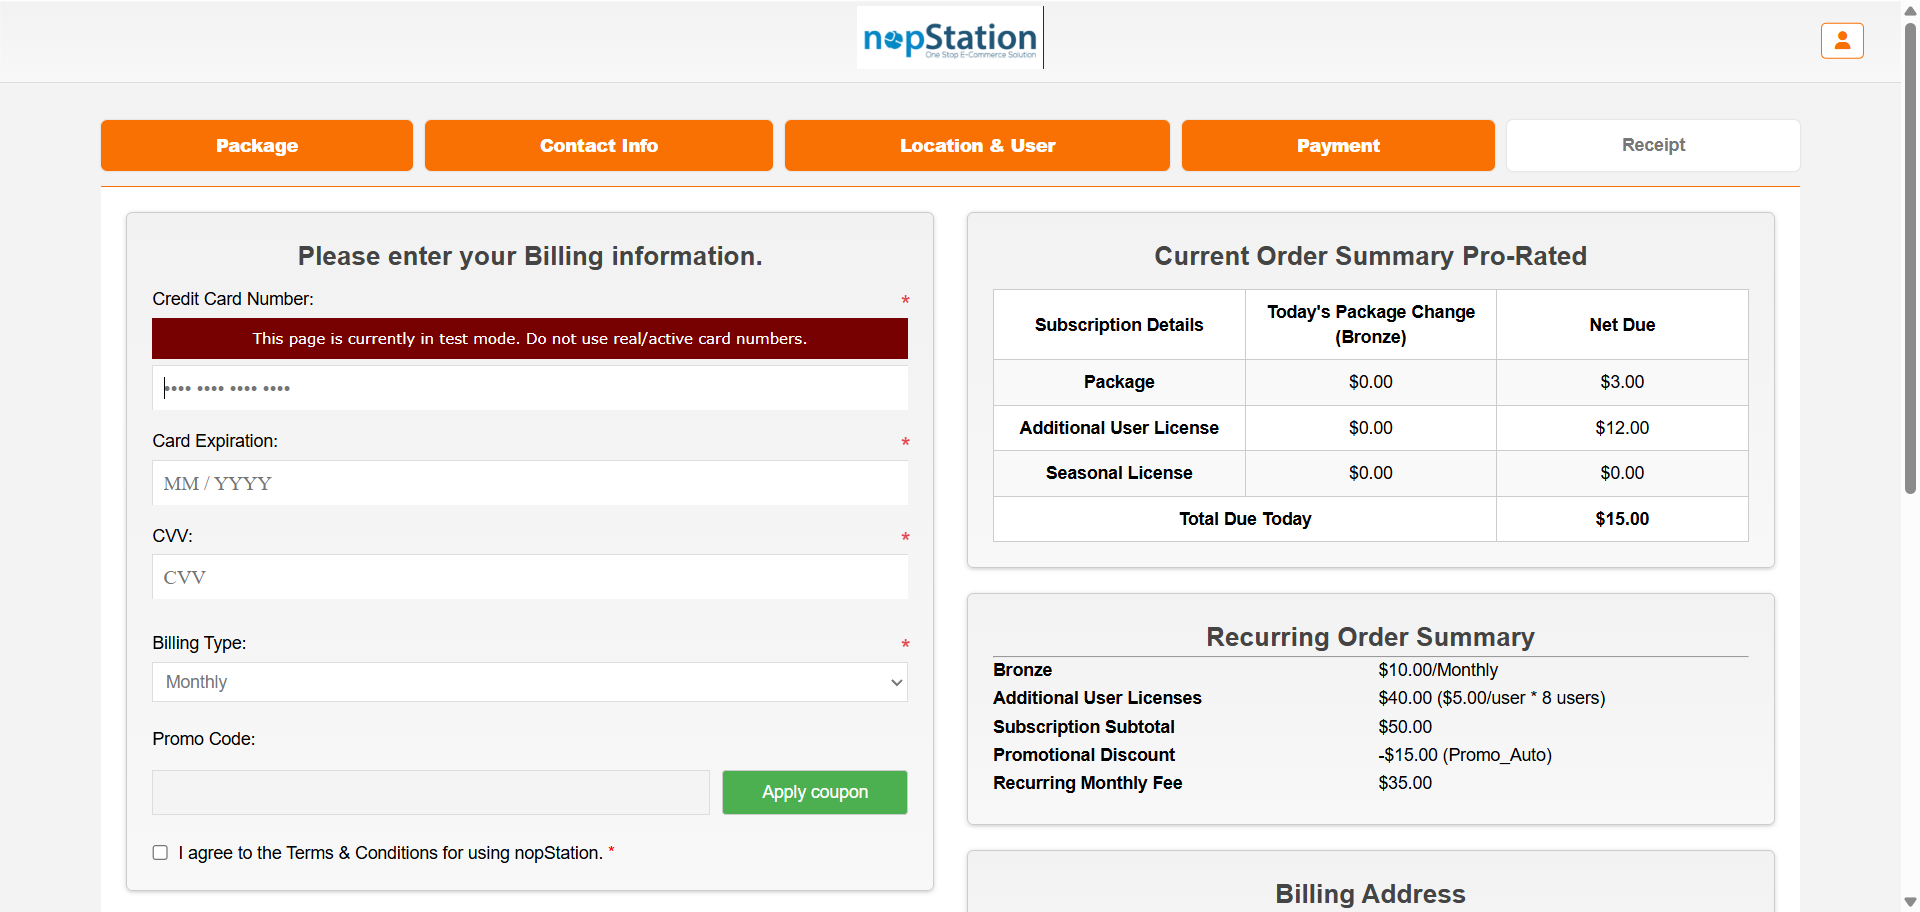
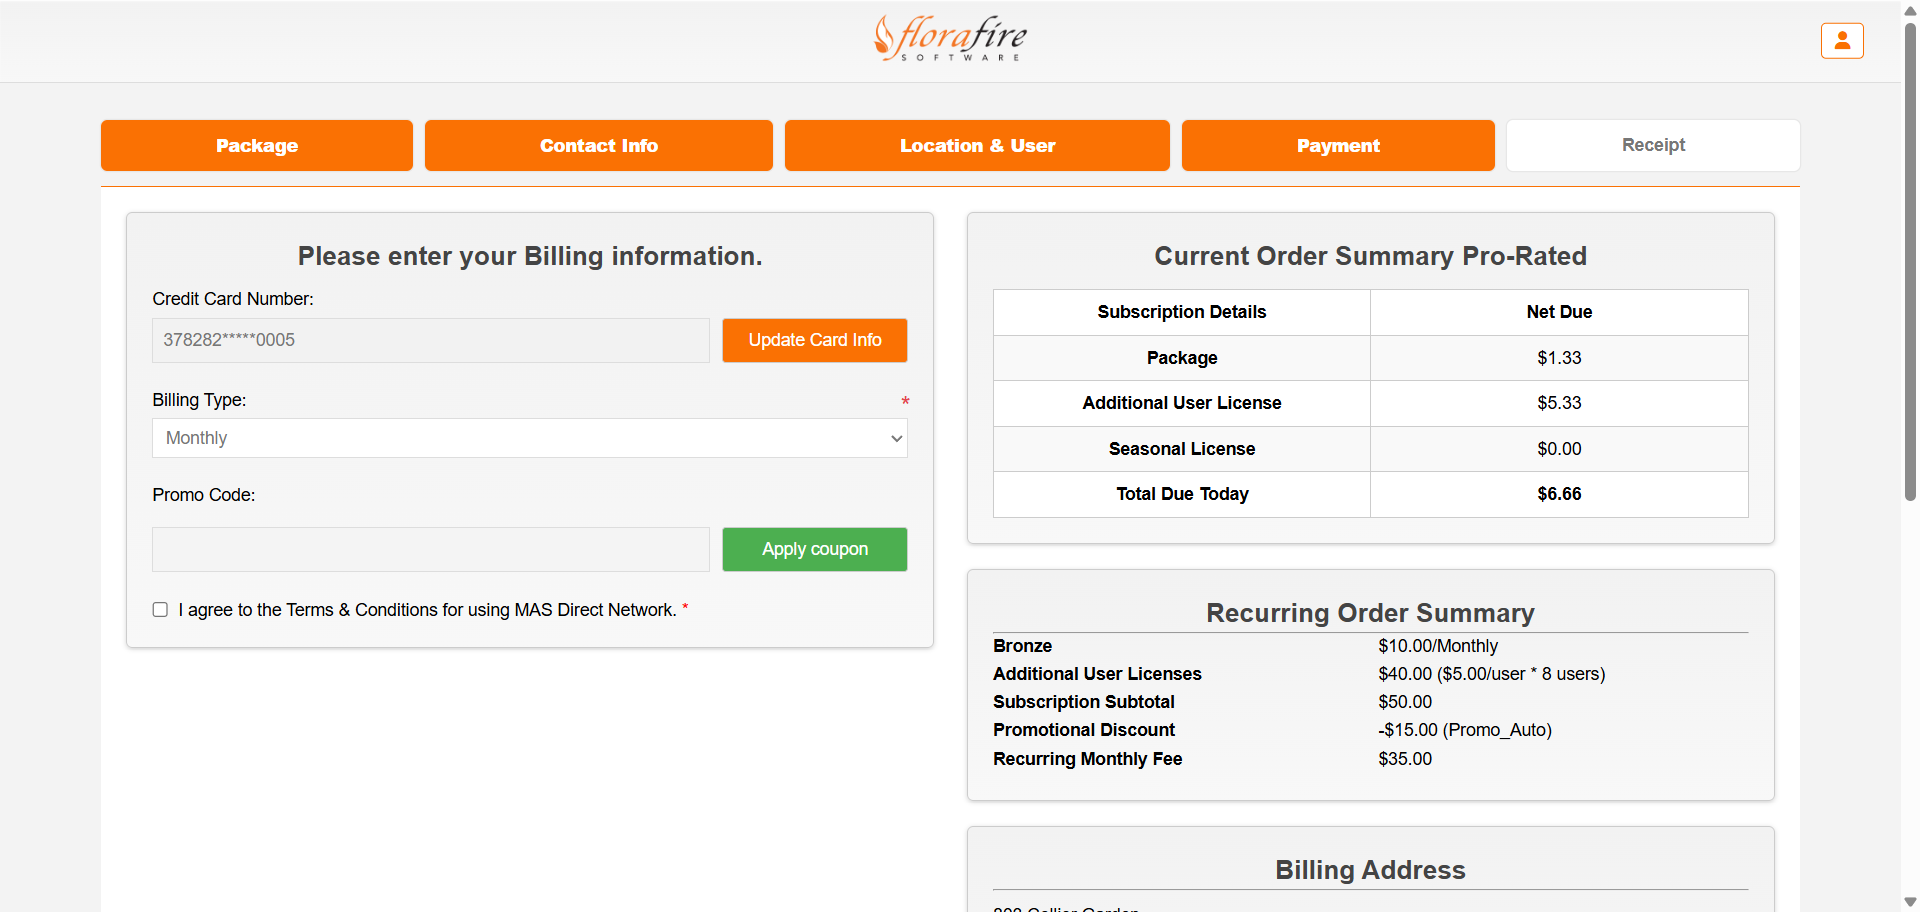
column remove for manual paid subscription scenario

diff --git a/src/main/java/pages/Payment_Page.java b/src/main/java/pages/Payment_Page.java
@@ -209,7 +209,7 @@ public class Payment_Page extends BaseClass{
          * validating package price
          */
 
-        getPackageNetDue = Double.parseDouble(driver.findElement(By.xpath(proratedOrderTable + "/tr[2]/td[3]")).getText().replaceAll(".*\\$(\\d+\\.\\d+).*", "$1"));
+        getPackageNetDue = Double.parseDouble(driver.findElement(By.xpath(proratedOrderTable + "/tr[2]/td[2]")).getText().replaceAll(".*\\$(\\d+\\.\\d+).*", "$1"));
         Assert.assertEquals(packageRemainingAmount, getPackageNetDue, "Package net due mismatch; should be: " +packageRemainingAmount+ " but displayed: " +getPackageNetDue);
 
         logger.info("Get Package Net Due: {} and Package Remaining Amount: {}", getPackageNetDue, packageRemainingAmount);
@@ -218,7 +218,7 @@ public class Payment_Page extends BaseClass{
          * validating license price
          */
 
-        getLicenseNetDue = Double.parseDouble(driver.findElement(By.xpath(proratedOrderTable + "/tr[3]/td[3]")).getText().replaceAll(".*\\$(\\d+\\.\\d+).*", "$1"));
+        getLicenseNetDue = Double.parseDouble(driver.findElement(By.xpath(proratedOrderTable + "/tr[3]/td[2]")).getText().replaceAll(".*\\$(\\d+\\.\\d+).*", "$1"));
         Assert.assertEquals(licenseRemainingAmount, getLicenseNetDue, "License net due mismatch; should be: " +licenseRemainingAmount+ " but displayed: " +getLicenseNetDue);
 
         logger.info("Get License Net Due: {} and License Remaining Amount: {}", getLicenseNetDue, licenseRemainingAmount);
